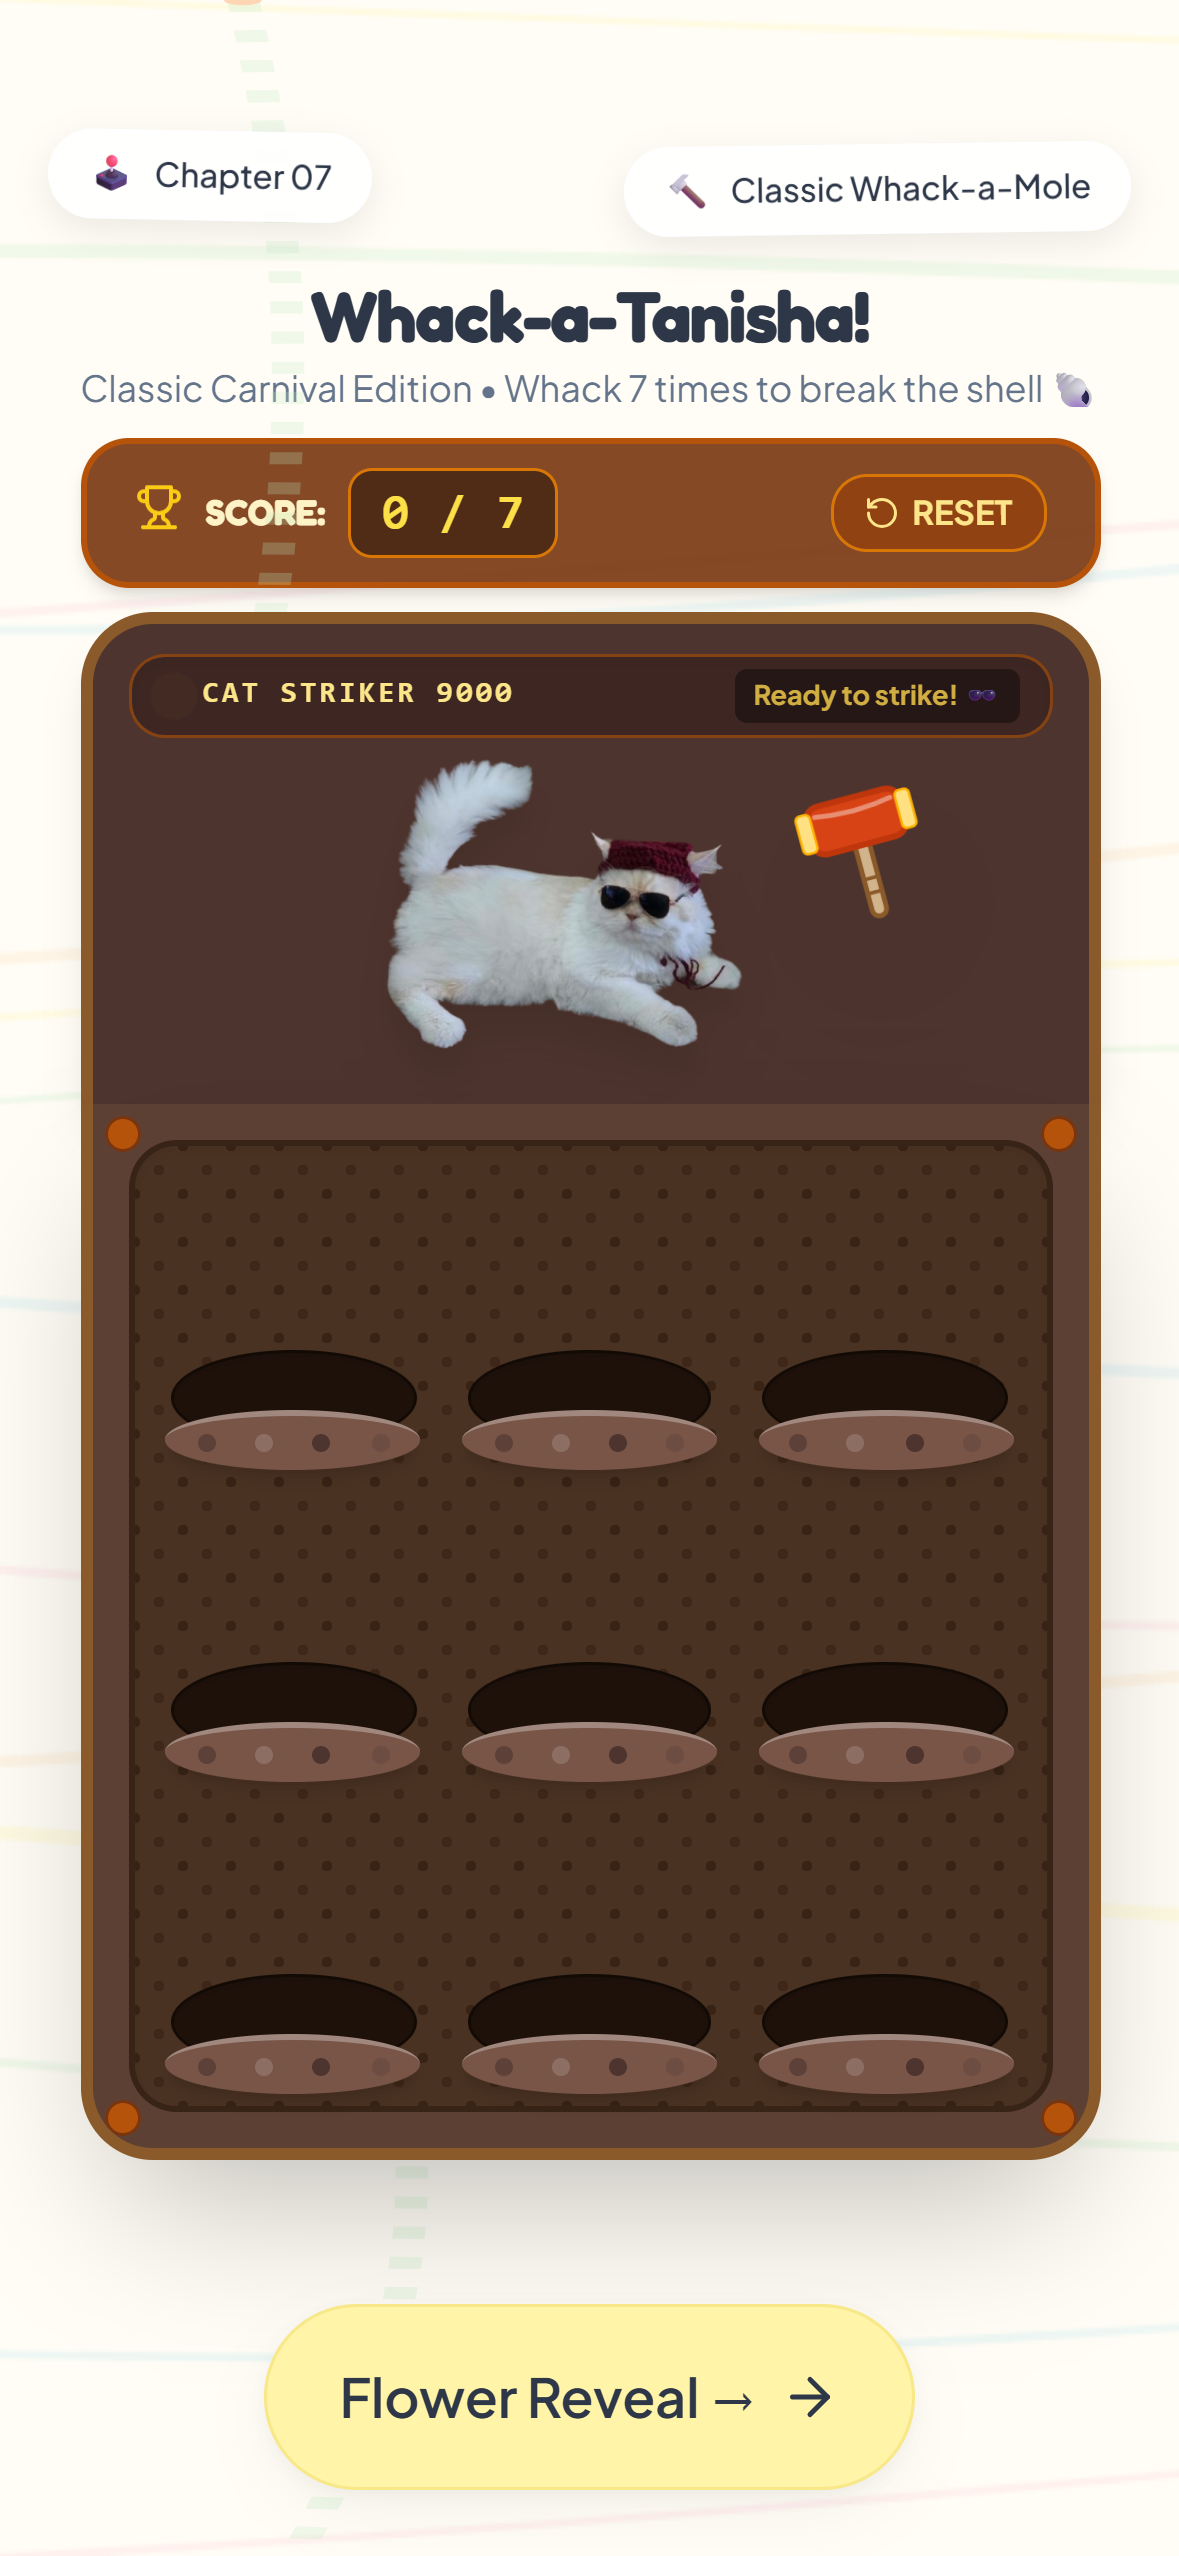
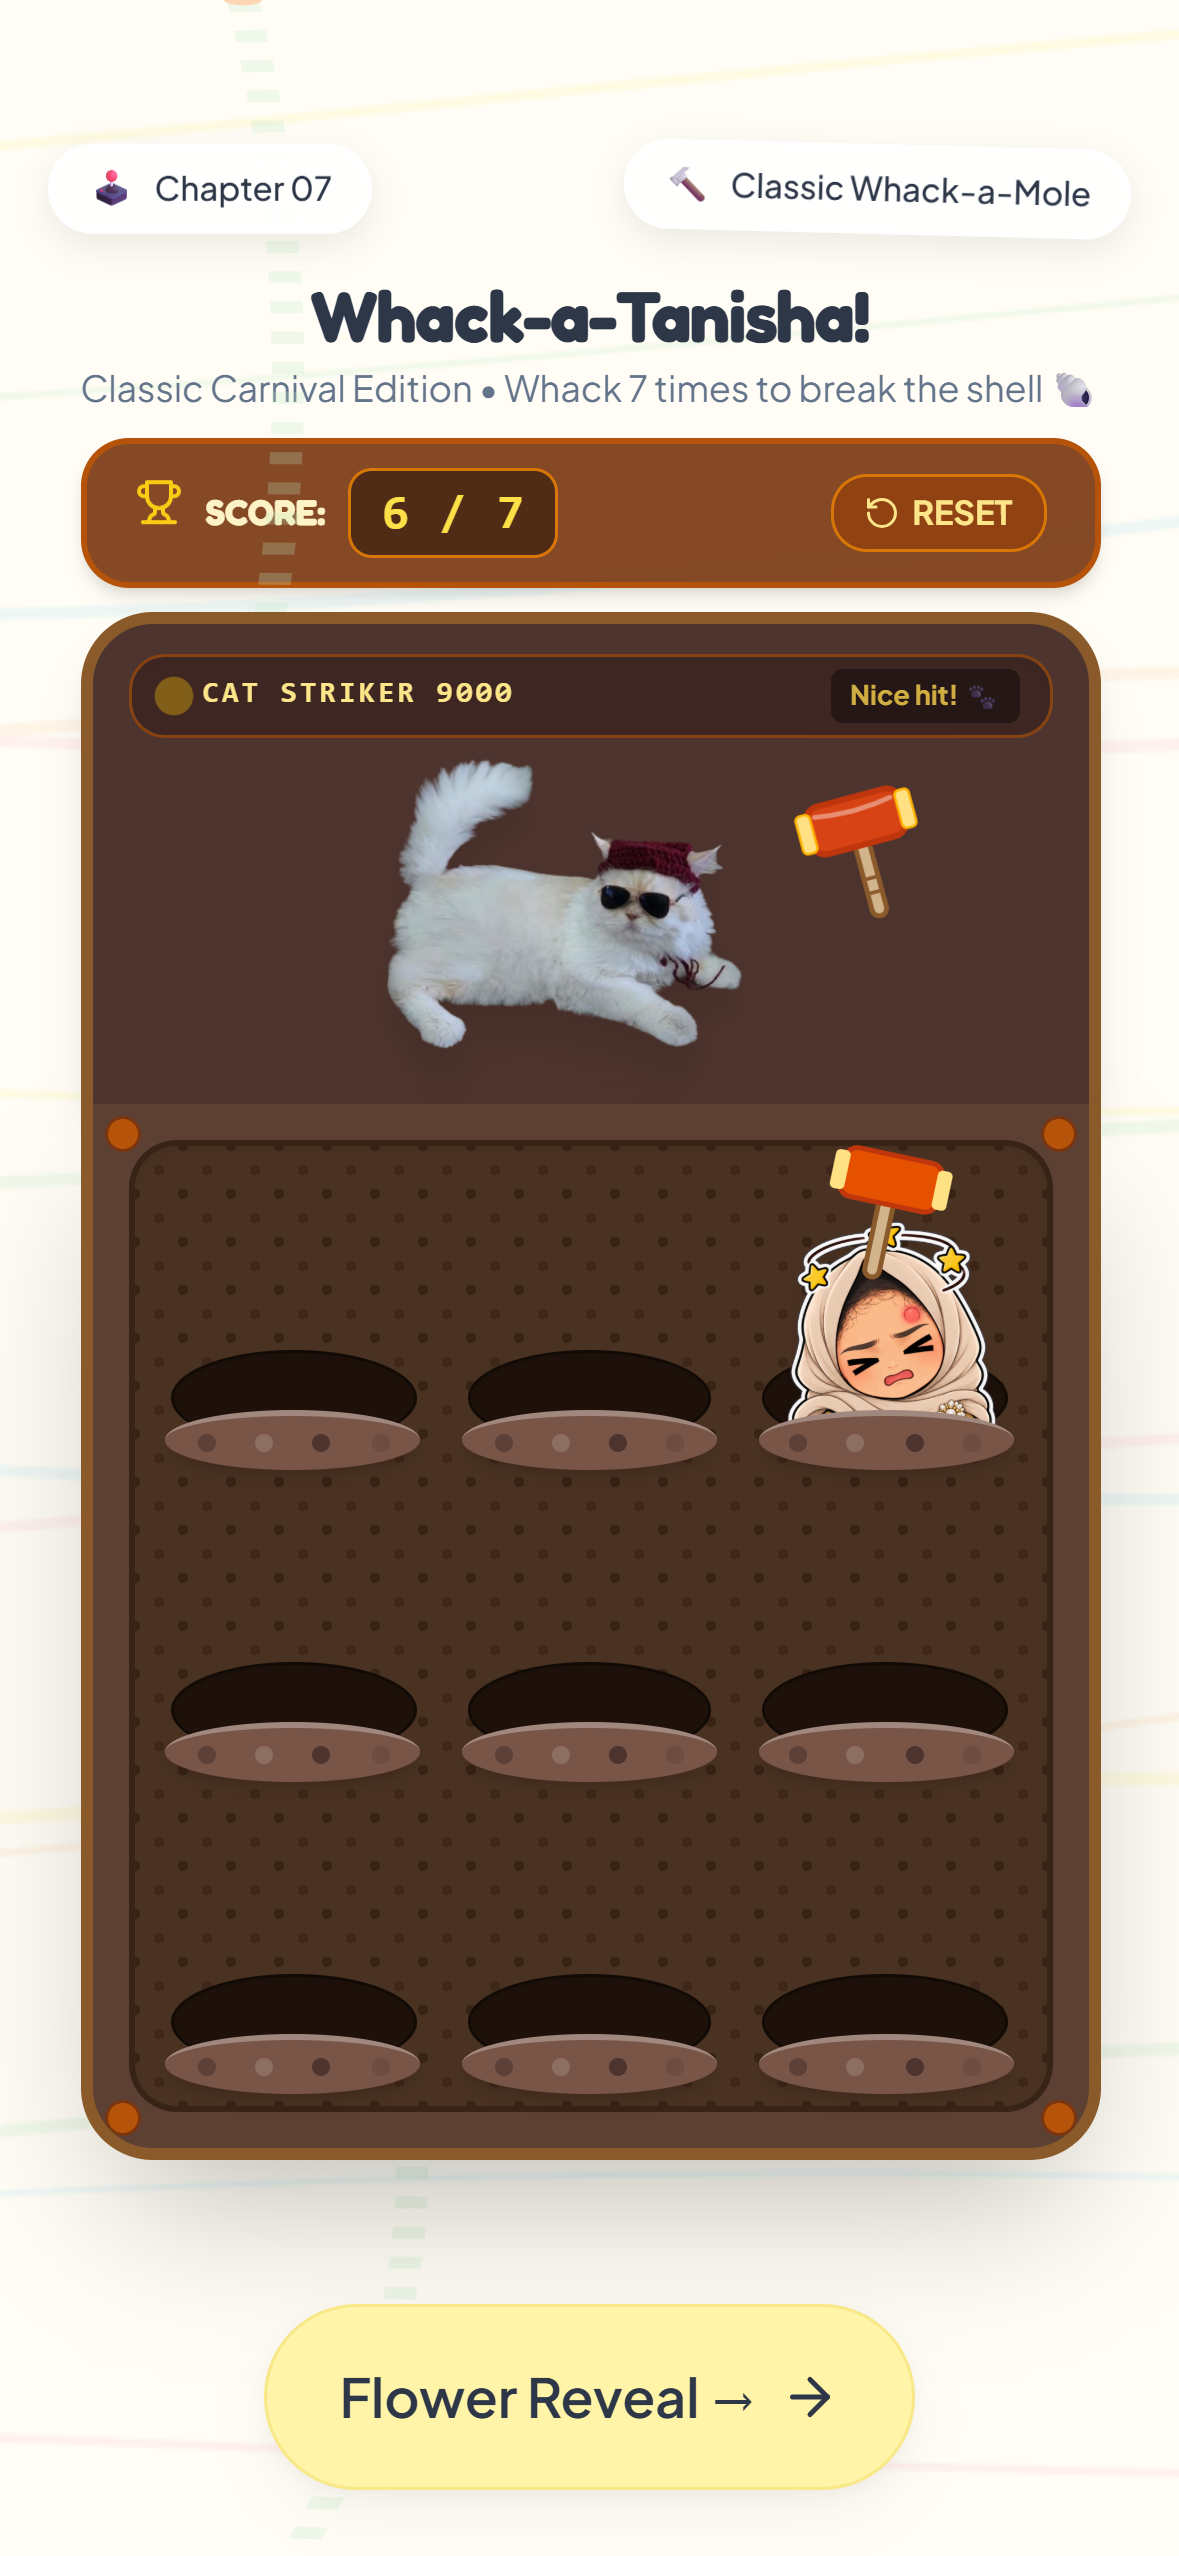
feat: add Whack-a-Tanisha interactive mini-game page and viewport screenshot

diff --git a/app/game/page.tsx b/app/game/page.tsx
@@ -99,7 +99,10 @@ export default function WhackGamePage() {
       // Win condition check
       if (newScore >= TARGET_SCORE) {
         setIsWon(true);
-        setActiveHole(null);
+        setTimeout(() => {
+          setActiveHole(null);
+          setHitHole(null);
+        }, 750);
 
         try {
           confetti({
@@ -110,11 +113,11 @@ export default function WhackGamePage() {
           });
         } catch {}
       } else {
-        // Retract mole after hit display
+        // Retract mole after hit display (500ms allows the player to clearly see the whacked expression)
         setTimeout(() => {
           setActiveHole(null);
           setHitHole(null);
-        }, 360);
+        }, 500);
       }
     }
   };
@@ -339,16 +342,16 @@ export default function WhackGamePage() {
                 <div className="absolute bottom-1 w-[90%] h-8 rounded-[50%] bg-[#1E110A] border border-[#120A05] shadow-inner" />
 
                 {/* Tanisha Mole Pop-Up Container (Masked by bottom dirt rim) */}
-                <div className="relative w-full h-full overflow-hidden flex justify-center items-end pb-1.5 pointer-events-none">
+                <div className="relative w-full h-full overflow-hidden flex justify-center items-end pb-1 pointer-events-none">
                   <AnimatePresence>
                     {isMoleActive && (
                       <motion.div
-                        key={isHit ? "mole-hit" : "mole-idle"}
+                        key="active-mole"
                         initial={{ y: 70, scale: 0.85 }}
                         animate={{
-                          y: isHit ? 10 : 0,
+                          y: isHit ? 4 : 0,
                           scale: isHit ? 1.05 : 1,
-                          rotate: isHit ? [-8, 8, -4, 4, 0] : 0,
+                          rotate: isHit ? [-6, 6, -3, 3, 0] : 0,
                         }}
                         exit={{ y: 70, scale: 0.85 }}
                         transition={{
@@ -356,7 +359,7 @@ export default function WhackGamePage() {
                           stiffness: 520,
                           damping: 24,
                         }}
-                        className="relative z-10 flex flex-col items-center"
+                        className="absolute bottom-1 inset-x-0 flex flex-col items-center z-10"
                       >
                         {/* Realistic Sticker Illustration: Idle vs Hit */}
                         <div className="relative h-20 w-20 drop-shadow-md">
